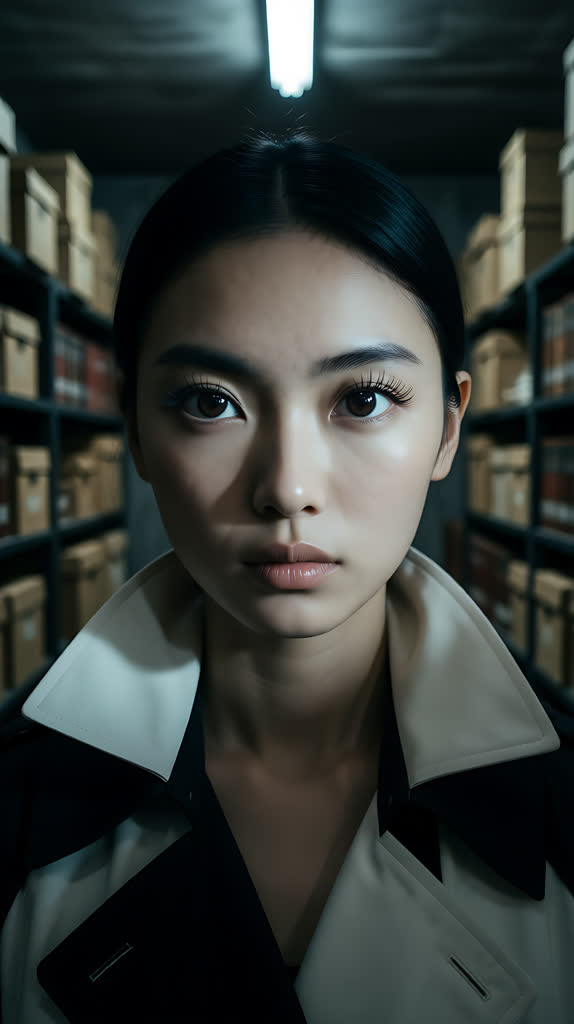
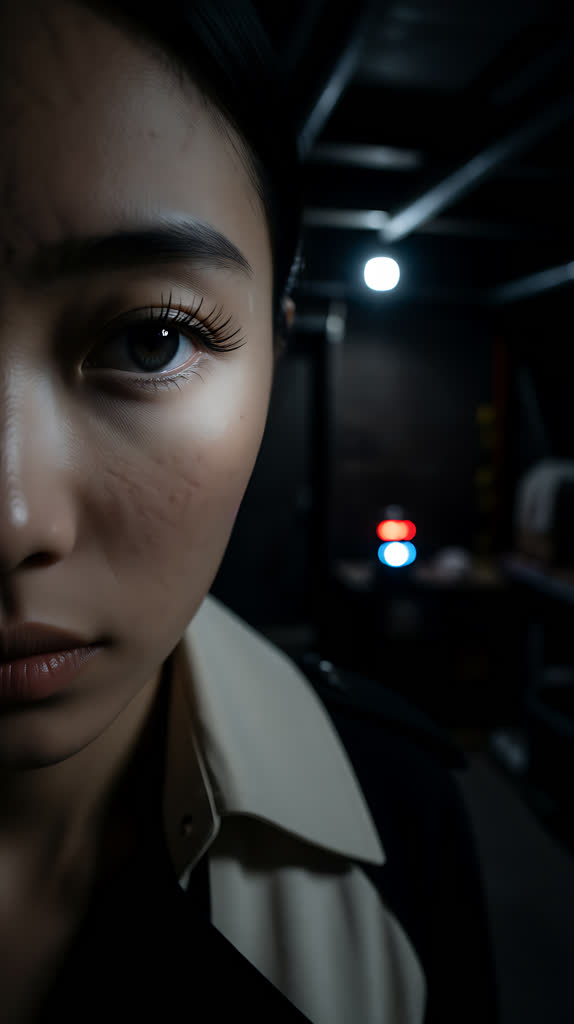
feat: EP01 分镜图全量重做（统一暗调基调 + 修构图偏差）

diff --git a/03_storyboard/EP01_分镜图提示词.md b/03_storyboard/EP01_分镜图提示词.md
@@ -28,15 +28,25 @@
 
 ---
 
-## 二、统一风格锚点（拼进每条提示词）
+## 二、统一风格锚点与负面约束（拼进每条提示词）
+
+**风格锚点**：
 
 ```
 电影感写实摄影，35mm 胶片质感，浅景深，颗粒感，高对比度阴影，竖屏 9:16 构图，
 真实可信的亚洲面孔，高细节皮肤质感
 ```
 
-**负面约束（写在每条提示词末尾）**：
-`不要动漫风，不要 3D 渲染，不要过度美颜，不要多个人物动作叠加`
+**负面约束（写在每条提示词末尾，全 10 镜共用）**：
+
+| 类别 | 内容 |
+|---|---|
+| 风格类（全剧通用） | `不要动漫风，不要 3D 渲染，不要过度美颜，不要多个人物动作叠加` |
+| **场景基调类（⭐ 2026-10-11 新增，EP01 专用）** | `不要明亮环境，不要多盏灯光，不要纸箱杂物，不要库房货架，不要现代办公场景` |
+
+> ⚠ **教训（2026-10-11）**：EP01 首轮批量生成时，**S02–S09 七镜**仅因提示词未逐条带上场景负面约束，
+> 即被模型解读为"明亮库房 + 多盏荧光灯 + 满架纸箱"，整集冷冽悬疑基调被击穿（仅 S01 因提示词被重写过而正常）。
+> **结论：基调红线不能只靠"场景锚点句"守，必须逐镜把负面约束复制进提示词末尾。**
 
 ---
 
@@ -72,15 +82,19 @@
 
 | 编号 | 场景 | 光线与氛围关键词 | 适用范围 |
 |---|---|---|---|
-| **A** | **地下室档案室** | 昏暗，**应急灯**冷白光自顶部/侧面压下，成排金属档案柜反光，空气中浮尘可见，高对比阴影 | **EP01 全 10 镜** |
+| **A** | **地下室档案室** | **极昏暗、单一光源**：仅一盏远处**应急灯**发出微弱冷光，环境几乎被黑暗吞没，**背景以纯黑为主**，几乎看不到任何物件 | **EP01 全 10 镜** |
 | B | 沈宅宴会厅走廊 | 奢华，水晶吊灯暖金光，大理石地面反光，红毯，镜面墙 | EP02+ 预留 |
 | C | 地下车库 | 雨夜，湿滑地面倒影，车灯冷光，水汽弥漫 | EP02+ 预留 |
 
 **EP01 场景锚点（拼接进每条提示词）**：
 
 ```
-深夜沈氏集团地下档案室，昏暗，顶部应急灯冷光，成排金属档案柜，空气中浮尘
+极昏暗的地下室角落，仅一盏远处的应急灯发出微弱冷光，环境几乎被黑暗吞没，背景以纯黑为主，几乎看不到任何物件
 ```
+
+> ⚠ **2026-10-11 收紧（原因与后果）**：原锚点「深夜沈氏集团地下档案室，昏暗，顶部应急灯冷光，成排金属档案柜，
+> 空气中浮尘」在批量生成时被模型解读为**明亮库房**（多盏荧光灯＋满架纸箱），S02–S09 七镜复现该问题。
+> 收紧后**必须让模型读到"几乎全黑、单一光源"**；并配合第二节的场景基调类负面约束逐镜写入，双重保险。
 
 ---
 
@@ -102,7 +116,7 @@
   场景为极昏暗的地下室角落，画面顶部极远处的一点微光从角落渗入、几乎不可辨认，环境几乎被黑暗吞没，
   背景为纯黑、几乎看不到任何物件；电影感写实摄影，35mm胶片质感，浅景深，高对比度阴影，黑色背景为主，
   低照度，颗粒感，竖屏9:16构图，高细节皮肤与金属质感；不要动漫风，不要3D渲染，不要过度美颜，
-  不要明亮环境，不要多盏灯光，不要纸箱杂物，不要人脸，不要人物全身
+  不要明亮环境，不要多盏灯光，不要纸箱杂物，不要库房货架，不要现代办公场景，不要人脸，不要人物全身
   ```
 - **参考资产**：**无**（不传护照图）——见下方「特写镜不传参考图」规则。
 - **重做记录**：
@@ -120,14 +134,16 @@
 
 - **画面描述**：中景（**紧构图**）。顾承泽自画面右侧抬臂，**枪口平稳抵住林浅额头**。
   本镜**视觉重心＝枪管与皮肤的交界点**：金属枪口在额头压出浅浅的皮肤凹陷，冷光恰在两者接触处反出一道细线。
-  人物躯干大半出画，只保留**枪、手与额头**。顾承泽戴金丝细框眼镜、左腕露旧机械表。
+  **画面只保留枪、手、额头三个元素**——顾承泽躯干大半出画，**不出现西装、领带与整个头部**。
 - **图像提示词**：
   ```
-  [以参考图锁定顾承泽、林浅] 紧凑构图的近中景，三十岁上下的男性（深色三件套西装、金丝细框眼镜、
-  左手腕旧机械表）自画面右侧抬起手枪、枪口抵住对面女性的额头，金属枪口在额头皮肤上压出浅凹；
-  画面视觉焦点为枪管与皮肤的交界点，冷光在接触处反出一道细线；人物躯干大半出画，只保留枪、手与额头；
-  深夜地下档案室，昏暗应急灯冷光，背景成排金属档案柜深度虚化；电影感写实摄影，35mm胶片质感，
-  极浅景深，竖屏9:16构图，真实亚洲面孔，高细节皮肤；不要动漫风，不要3D渲染，不要过度美颜，不要多余动作
+  [以参考图锁定顾承泽、林浅] 紧凑构图的近中景，画面只保留枪、手、额头三个元素；三十岁上下的男性
+  自画面右侧抬起手枪、枪口抵住对面女性的额头，金属枪口在额头皮肤上压出浅凹；画面视觉焦点为
+  枪管与皮肤的交界点，冷光在接触处反出一道细线；人物躯干大半出画，画面不出现西装、领带、整个头部；
+  极昏暗的地下室角落，仅一盏远处的应急灯发出微弱冷光，环境几乎被黑暗吞没，背景以纯黑为主、
+  几乎看不到任何物件；电影感写实摄影，35mm胶片质感，极浅景深，高对比度阴影，竖屏9:16构图，
+  真实亚洲面孔，高细节皮肤；不要动漫风，不要3D渲染，不要过度美颜，不要多余动作，
+  不要明亮环境，不要多盏灯光，不要纸箱杂物，不要库房货架，不要现代办公场景
   ```
 - **参考资产**：`顾承泽_护照.png` + `林浅_护照.png`
 
@@ -142,8 +158,10 @@
   女性的下巴、逼其抬头；画面视觉重心为女性被挑起的下颌线，从耳下到下巴的线条被侧光勾亮，
   成为最强视觉引导线；手枪枪口仅占据画面右下角一小块、作为边角元素不抢焦点；
   女性（黑白风衣、低马尾）目光被迫上移却不闪躲，神情倔强；
-  两人面部占满画面，深夜地下档案室应急灯冷光侧打，背景全虚；电影感写实摄影，35mm胶片质感，
-  浅景深，竖屏9:16构图，真实亚洲面孔，高细节皮肤；不要动漫风，不要3D渲染，不要过度美颜
+  两人面部占满画面，极昏暗的地下室角落、仅一盏远处的应急灯发出微弱冷光从侧方勾出轮廓，
+  环境几乎被黑暗吞没，背景以纯黑为主、几乎看不到任何物件；电影感写实摄影，35mm胶片质感，
+  浅景深，高对比度阴影，竖屏9:16构图，真实亚洲面孔，高细节皮肤；不要动漫风，不要3D渲染，
+  不要过度美颜，不要明亮环境，不要多盏灯光，不要纸箱杂物，不要库房货架，不要现代办公场景
   ```
 - **参考资产**：`顾承泽_护照.png` + `林浅_护照.png`
 
@@ -153,9 +171,10 @@
 - **图像提示词**：
   ```
   [以参考图锁定林浅] 女性眼睛的极端大特写，瞳孔骤然收缩，睫毛轻颤，眼球表面映出一点冷光；
-  皮肤与眼周纹理高度写实，黑白风衣领口虚化在画面边缘；深夜地下档案室应急灯冷光；
-  电影感写实摄影，35mm胶片质感，浅景深，高对比度阴影，竖屏9:16构图，真实亚洲面孔；
-  不要动漫风，不要3D渲染，不要过度美颜
+  皮肤与眼周纹理高度写实，黑白风衣领口虚化在画面边缘；极昏暗的地下室角落，仅一盏远处的应急灯
+  发出微弱冷光，环境几乎被黑暗吞没，背景以纯黑为主；电影感写实摄影，35mm胶片质感，浅景深，
+  高对比度阴影，竖屏9:16构图，真实亚洲面孔；不要动漫风，不要3D渲染，不要过度美颜，
+  不要明亮环境，不要多盏灯光，不要纸箱杂物，不要库房货架，不要现代办公场景
   ```
 - **参考资产**：`林浅_护照.png`
 
@@ -164,22 +183,27 @@
 - **画面描述**：中景。林浅**向后撤一步**，脚跟落地、重心后移；顾承泽持枪的手保持原位。两人距离轻微拉开。
 - **图像提示词**：
   ```
-  [以参考图锁定林浅、顾承泽] 双人中景，女性（黑白风衣、低马尾）向后撤一步、脚跟落地、重心后移，
-  身后是成排金属档案柜；男性（金丝眼镜、深色西装）持枪的手保持原位不动；两人距离轻微拉开；
-  深夜地下档案室，昏暗应急灯冷光，地面灰浆质感；电影感写实摄影，35mm胶片质感，浅景深，
-  竖屏9:16构图，真实亚洲面孔；不要动漫风，不要3D渲染，不要过度美颜，不要多余动作
+  [以参考图锁定林浅、顾承泽] 双人中景，女性（黑白风衣、低马尾）向后撤一步、脚跟落地、重心后移；
+  男性（金丝眼镜、深色西装）持枪的手保持原位不动；两人距离轻微拉开；极昏暗的地下室角落，
+  仅一盏远处的应急灯发出微弱冷光，环境几乎被黑暗吞没，背景以纯黑为主、几乎看不到任何物件；
+  电影感写实摄影，35mm胶片质感，浅景深，高对比度阴影，竖屏9:16构图，真实亚洲面孔；
+  不要动漫风，不要3D渲染，不要过度美颜，不要多余动作，不要明亮环境，不要多盏灯光，
+  不要纸箱杂物，不要库房货架，不要现代办公场景
   ```
 - **参考资产**：`林浅_护照.png` + `顾承泽_护照.png`
 
 ### 镜头 S06 ｜ 25–30s ｜ 全景 ｜ 主体动作：撞翻铁柜
 
-- **画面描述**：全景。林浅后背**撞上一排金属档案柜**，柜体倾倒、灰尘在应急灯冷光中炸开；她的身体因冲击前倾。前景有飘散尘粒。
+- **画面描述**：全景。林浅**后背撞上档案柜**（**被动受力**，非主动推柜），身体因冲击前倾、重心不稳；
+  柜体受撞向后倾倒，灰尘弥漫、尘粒在微弱冷光中缓缓飘散。**无火花、无爆炸感**。
 - **图像提示词**：
   ```
-  [以参考图锁定林浅] 全景，女性（黑白风衣、低马尾）后背撞上一排金属档案柜，柜体倾倒、
-  尘土在冷光中炸开弥漫，她的身体因冲击前倾；深夜地下档案室，昏暗应急灯冷光从顶部压下，
-  地面与柜体反光，前景漂浮尘粒；电影感写实摄影，35mm胶片质感，浅景深偏深，高对比度阴影，
-  竖屏9:16构图，真实亚洲面孔；不要动漫风，不要3D渲染，不要过度美颜
+  [以参考图锁定林浅] 全景，女性的后背撞上身后的档案柜、身体因冲击向前倾，是被动的受力姿态，
+  不是主动推柜；柜体受撞向后倾倒，灰尘弥漫、尘粒在微弱冷光中缓缓飘散；极昏暗的地下室角落，
+  仅一盏远处的应急灯发出微弱冷光，环境几乎被黑暗吞没，背景以纯黑为主、几乎看不到任何物件；
+  电影感写实摄影，35mm胶片质感，浅景深偏深，高对比度阴影，竖屏9:16构图，真实亚洲面孔；
+  不要动漫风，不要3D渲染，不要过度美颜，不要主动推柜，不要爆炸，不要火花，不要金色粒子，
+  不要明亮环境，不要多盏灯光，不要纸箱杂物，不要库房货架，不要现代办公场景
   ```
 - **参考资产**：`林浅_护照.png`
 
@@ -189,9 +213,11 @@
 - **图像提示词**：
   ```
   [以参考图锁定顾承泽] 中景，男性（深色三件套西装、金丝细框眼镜、左腕旧机械表）向后退开半步，
-  枪口仍指向画面左前方，重心后移、肩线略转，表情警觉、视线锁定前方；深夜地下档案室，
-  昏暗应急灯冷光，背景成排金属档案柜虚化，浮尘；电影感写实摄影，35mm胶片质感，浅景深，
-  竖屏9:16构图，真实亚洲面孔；不要动漫风，不要3D渲染，不要过度美颜，不要多余动作
+  枪口仍指向画面左前方，重心后移、肩线略转，表情警觉、视线锁定前方；极昏暗的地下室角落，
+  仅一盏远处的应急灯发出微弱冷光，环境几乎被黑暗吞没，背景以纯黑为主、几乎看不到任何物件，
+  空气中少量浮尘；电影感写实摄影，35mm胶片质感，浅景深，高对比度阴影，竖屏9:16构图，
+  真实亚洲面孔；不要动漫风，不要3D渲染，不要过度美颜，不要多余动作，不要明亮环境，
+  不要多盏灯光，不要纸箱杂物，不要库房货架，不要现代办公场景
   ```
 - **参考资产**：`顾承泽_护照.png`
 
@@ -201,11 +227,13 @@
 - **图像提示词**：
   ```
   [以参考图锁定顾承泽] 手部特写，男性握枪的手指收紧扣住扳机，食指关节因用力泛白，
-  左手腕旧机械表（表带带划痕）入画，深色西装袖口；深夜地下档案室，昏暗应急灯冷光，
-  金属枪身反出一道冷光细线，背景深度虚化；电影感写实摄影，35mm胶片质感，浅景深，
-  高对比度阴影，竖屏9:16构图，高细节皮肤与金属质感；不要动漫风，不要3D渲染
+  左手腕旧机械表（表带带划痕）入画，深色西装袖口；极昏暗的地下室角落，仅一盏远处的应急灯
+  发出微弱冷光，环境几乎被黑暗吞没，背景以纯黑为主；金属枪身反出一道冷光细线；
+  电影感写实摄影，35mm胶片质感，浅景深，高对比度阴影，竖屏9:16构图，高细节皮肤与金属质感；
+  不要动漫风，不要3D渲染，不要过度美颜，不要明亮环境，不要多盏灯光，不要纸箱杂物，
+  不要库房货架，不要现代办公场景
   ```
-- **参考资产**：`顾承泽_护照.png`
+- **参考资产**：**无**（不传护照图）——见「特写镜参考图规则」。
 
 ### 镜头 S08 ｜ 40–45s ｜ 中景（对称构图）｜ 主体动作：枪口直指眉心
 
@@ -214,12 +242,14 @@
   **视觉重心＝枪口与眉心之间那段悬停的空隙**（张力来源）。手臂伸直、枪身水平；林浅神情决绝。
 - **图像提示词**：
   ```
-  [以参考图锁定顾承泽、林浅] 左右对称构图的双人中景，男性（金丝细框眼镜、深色西装）持枪手臂伸直、
-  枪身水平，枪口正对对面女性的眉心；男性与女性的面部各占画面一侧、体量相当，手枪位于画面正中央；
-  画面视觉重心为枪口与眉心之间悬停的空隙，制造对峙张力；女性（黑白风衣、低马尾）的脸在枪口后方，
-  神情决绝、不闪躲；深夜地下档案室，昏暗应急灯冷光，背景金属档案柜深度虚化；
-  电影感写实摄影，35mm胶片质感，浅景深，竖屏9:16构图，真实亚洲面孔；
-  不要动漫风，不要3D渲染，不要过度美颜，不要多余动作
+  [以参考图锁定顾承泽、林浅] 严格的左右对称构图，两人面部各占画面一半、体量相等、视线等高；
+  男性（金丝细框眼镜、深色西装）持枪手臂伸直、枪身水平，枪口正对对面女性的眉心，枪身与两人视线
+  平行、指向她的额头（枪口不朝向镜头）；手枪位于画面正中央；画面视觉重心为枪口与眉心之间
+  悬停的空隙，制造对峙张力；女性（黑白风衣、低马尾）的脸在枪口后方，神情决绝、不闪躲；
+  极昏暗的地下室角落，仅一盏远处的应急灯发出微弱冷光，环境几乎被黑暗吞没，背景以纯黑为主、
+  几乎看不到任何物件；电影感写实摄影，35mm胶片质感，浅景深，高对比度阴影，竖屏9:16构图，
+  真实亚洲面孔；不要动漫风，不要3D渲染，不要过度美颜，不要多余动作，不要枪口朝向镜头，
+  不要明亮环境，不要多盏灯光，不要纸箱杂物，不要库房货架，不要现代办公场景
   ```
 - **参考资产**：`顾承泽_护照.png` + `林浅_护照.png`
 
@@ -229,11 +259,12 @@
 - **图像提示词**：
   ```
   [以参考图锁定顾承泽] 手部特写，男性食指缓慢下压手枪扳机、停在触底前的瞬间，指节紧绷，
-  左手腕旧机械表入画，深色西装袖口；深夜地下档案室，昏暗应急灯冷光，金属质感高细节，
-  背景深度虚化；电影感写实摄影，35mm胶片质感，浅景深，高对比度阴影，竖屏9:16构图；
-  不要动漫风，不要3D渲染，不要过度美颜
+  左手腕旧机械表入画，深色西装袖口；极昏暗的地下室角落，仅一盏远处的应急灯发出微弱冷光，
+  环境几乎被黑暗吞没，背景以纯黑为主；金属质感高细节；电影感写实摄影，35mm胶片质感，浅景深，
+  高对比度阴影，竖屏9:16构图；不要动漫风，不要3D渲染，不要过度美颜，不要明亮环境，
+  不要多盏灯光，不要纸箱杂物，不要库房货架，不要现代办公场景
   ```
-- **参考资产**：`顾承泽_护照.png`
+- **参考资产**：**无**（不传护照图）——见「特写镜参考图规则」。
 
 ---
 
@@ -260,11 +291,14 @@
    **非面部局部特写镜例外**（见第三节规则），改为提示词显式排除面部。
 2. **服装锁定**：林浅＝黑白极简风衣；顾承泽＝深色三件套西装＋金丝眼镜＋左腕旧机械表。
 3. **光线锁定**：全片统一「地下档案室应急灯冷光」，不得逐镜漂移。
-   ⚠ **基调红线（2026-10-11 新增）**：EP01 是**极昏暗、单一光源**的冷冽悬疑基调——
-   **禁止出现多盏荧光灯、明亮现代办公场景、纸箱杂物**。提示词须显式写出负面约束
-   （`不要明亮环境，不要多盏灯光，不要纸箱杂物`），并在出图后逐张核对。
+   ⚠ **基调红线（2026-10-11 升级）**：EP01 是**极昏暗、单一光源**的冷冽悬疑基调——
+   **禁止出现多盏荧光灯、明亮现代办公场景、纸箱杂物、库房货架**。
+   **每镜提示词末尾必须逐条带上第二节的「场景基调类」负面约束全 5 项**
+   （`不要明亮环境，不要多盏灯光，不要纸箱杂物，不要库房货架，不要现代办公场景`），
+   并采用第四节收紧后的场景锚点句（"几乎全黑"）。出图后逐张核对。
 4. **单一动作**：每镜只含 1 个主体动作；出现两个动作即回 `docs/分镜规范.md` 拆镜。
-5. **S06 因果**：撞柜（动）与灰尘炸开（果）同镜呈现，但不叠加第二个主体动作。
+5. **S06 因果与受力方向**：撞柜（动）与灰尘弥漫（果）同镜呈现，但不叠加第二个主体动作；
+   **必须是"林浅被撞（被动受力）"**，不是"林浅主动推柜"；**不得出现火花／金色粒子／爆炸感**。
 6. **S09 黑屏**：黑屏在剪辑阶段加，生成时只保证「手指按下」这一个动作。
 7. **⭐ 三处「枪镜」必须视觉差异化**（避免构图重复）：
    本集 S02 / S03 / S08 都含"枪"，但**视觉重心各不相同**，生成后须逐张核对：
@@ -283,7 +317,9 @@
 
 - [ ] 10 镜与 `02_scripts/EP01.md` 一一对应（含 7a/7b）
 - [ ] 每镜仅 1 个主体动作
-- [ ] 每镜提示词含统一风格锚点 + 负面约束
+- [ ] 每镜提示词含统一风格锚点 + 负面约束，**且「场景基调类」5 项负面约束逐镜齐全**
+      （`不要明亮环境，不要多盏灯光，不要纸箱杂物，不要库房货架，不要现代办公场景`）
+- [ ] 每镜场景锚点句已用**收紧版**（"极昏暗的地下室角落，仅一盏远处的应急灯发出微弱冷光，环境几乎被黑暗吞没，背景以纯黑为主"）
 - [ ] 每镜提示词明确写入选定角色的关键特征（林浅左腕疤 / 顾承泽金丝眼镜＋机械表）
 - [ ] 参考资产（护照）已逐镜指定；**非面部局部特写镜已确认未传护照、面部特写镜（S04）仍传护照**
 - [ ] 场景风格前后一致（EP01 全为「A. 地下室」），且**为极昏暗单光源**（无多灯、无纸箱、非明亮办公场景）

diff --git a/docs/PROGRESS.md b/docs/PROGRESS.md
@@ -167,6 +167,27 @@
 - ⚠ 构图细则亦需回炉：S02 未实现"紧构图"（出成双人中景）、S08 未实现"左右对称"（枪指向镜头、林浅偏侧）、
   S09 为双手握枪而非"食指按下"。
 
+### EP01 九镜重做（2026-10-11 傍晚，第④步，基调修复）
+
+- **触发**：用户复核首轮 10 张图，判定场景基调问题"比报告更严重"，裁定重做（含 S07a、S07b）。
+- **文档先行修复**（`03_storyboard/EP01_分镜图提示词.md`）：
+  - 第二节负面约束扩为两类 —— 新增**场景基调类 5 项**：
+    `不要明亮环境，不要多盏灯光，不要纸箱杂物，不要库房货架，不要现代办公场景`
+  - 第四节 EP01 场景锚点收紧为「极昏暗的地下室角落，仅一盏远处的应急灯发出微弱冷光，
+    环境几乎被黑暗吞没，背景以纯黑为主，几乎看不到任何物件」
+  - 逐镜：**S01–S09 全部**补齐 5 项负面约束 + 收紧锚点；S02 加强紧构图、S06 改被动受力＋去火花、S08 加强左右对称
+  - **S07b / S09 参考资产纠正为「无」**（非面部局部特写，与脚本剥离规则一致）
+- 命令：`python gen_storyboard.py --ep 01 --compress --force --only S02,S03,S04,S05,S06,S07a,S07b,S08,S09`
+- **结果：成功 9 ｜ 跳过 0 ｜ 失败 0**，无限流。
+- 产物：`04_assets/scenes/SC_EP01_S0*.jpg` × 10（均 **574×1024**，合计 **316 KB**）；
+  `_hires/` 10 张（20.6 MB，不入库）。
+- ✅ **基调大幅改善**：9 镜全部收敛为"极暗 + 单一光源"，此前"明亮库房 + 多盏荧光灯"问题消除。
+- ⚠ 残余：S02/S03/S05/S06/S08 背景仍有零星纸箱/货架；
+  构图三项（S02 紧构图 / S06 被动受力 / S08 对称）**未完全达标**。
+- **止步裁定（用户预授权）**：基调达标即接受，构图细节**不再迭代**（留待视频提示词/运镜或合成阶段兜底）；
+  纸箱残余可用**后期调色统一压暗**兜底：
+  `ffmpeg -i SC_EP01_SXX.jpg -vf "eq=brightness=-0.2:contrast=1.4:saturation=0.6" SC_EP01_SXX_dark.jpg`
+
 ---
 
 ## 四、下一步待办
@@ -189,8 +210,9 @@
 
 7. [ ] 24h 视频配额复测（最小调用 `mode:"text"` / `seconds:"4"` / `size:"720P"`）
 8. [ ] 根据配额结果决定：纯视频 / 混合 / 纯准视频方案
-9. [ ] 生成分镜图（`04_assets/scenes/`）：**S01 已定稿**；剩余 9 镜可用
-       `python gen_storyboard.py --ep 01 --compress` 一键批量（断点续跑，已存在的自动跳过）
+9. [x] ~~生成分镜图（`04_assets/scenes/`）~~ → **已完成（2026-10-11）**：
+       S01 定稿 v3；其余 9 镜经"基调修复"后重做，全 10 镜统一为**极暗单光源**基调（1K JPEG 入库）
+10. [ ] 分镜图残余纸箱的**后期压暗兜底**（可选，若审图后决定统一压暗）
 10. [ ] 跑通 1 集端到端流程
 
 ### 已完成脚本（本轮新增）
